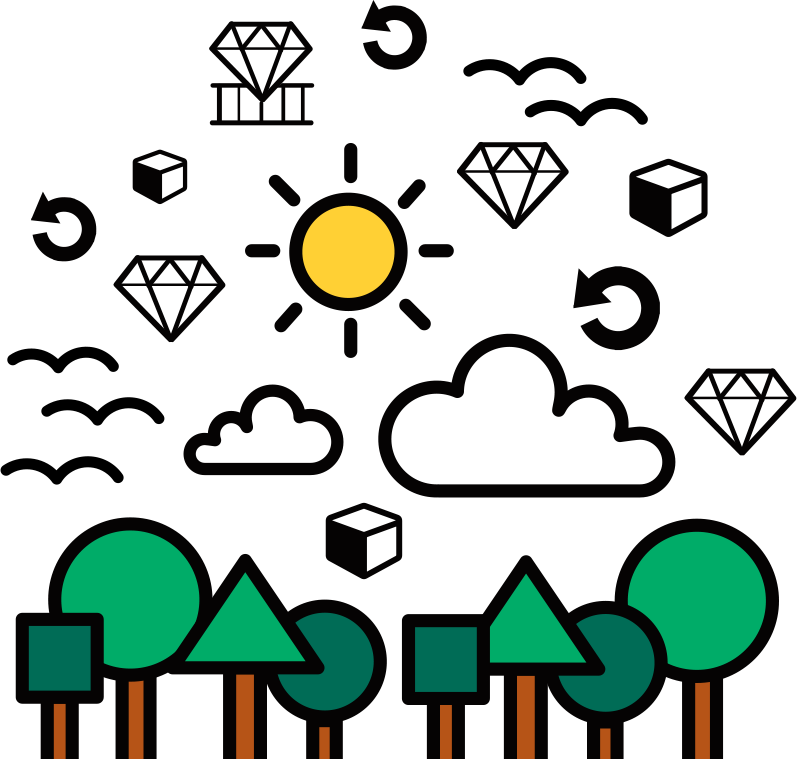
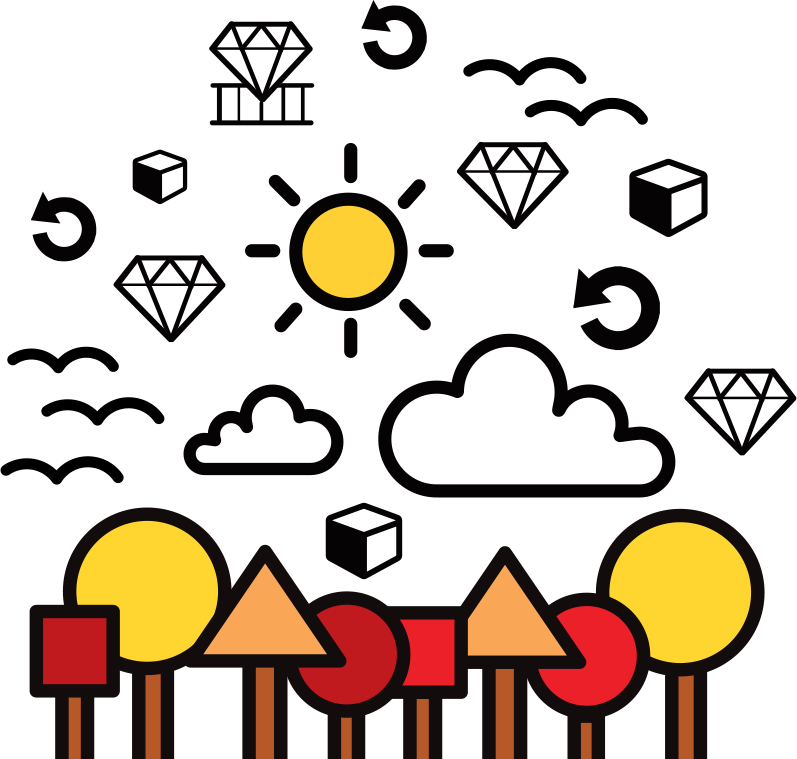
Fall colours!

Changed region(s): [[0.0, 0.6667, 0.9937, 1.0]]

diff --git a/app/assets/stylesheets/components/_page_header.sass b/app/assets/stylesheets/components/_page_header.sass
@@ -77,13 +77,13 @@
     background-image: image_url('program/program-cover.jpg')
 
   &.program
-    background-image: image_url('backgrounds/cover-green.png')
+    background-image: image_url('backgrounds/cover-red.png')
 
   &.sponsors
-    background-image: image_url('photos/science-park-amsterdam-people.jpg')
+    background-image: image_url('backgrounds/cover-red.png')
 
   &.speakers
-    background-image: image_url('photos/science-park-amsterdam-people.jpg')
+    background-image: image_url('backgrounds/cover-red.png')
 
 @media (max-width: $screen-sm-max)
   .dbc-page-header.home

diff --git a/app/assets/stylesheets/config/_bootstrap-variables.scss b/app/assets/stylesheets/config/_bootstrap-variables.scss
@@ -31,8 +31,11 @@ $yellow:               #fac21f !default;
 $light-yellow:         #ffe68d !default;
 $purple:               #603e96 !default;
 $dark-purple:          #5a1a80 !default;
-$green:                #2eaa6c !default;
-$dark-green:           #205a44 !default;
+//$green:                #2eaa6c !default;
+//$dark-green:           #205a44 !default;
+
+$green:                #ff6633 !default;
+$dark-green:           #cc0033 !default;
 
 //== Page headers
 
